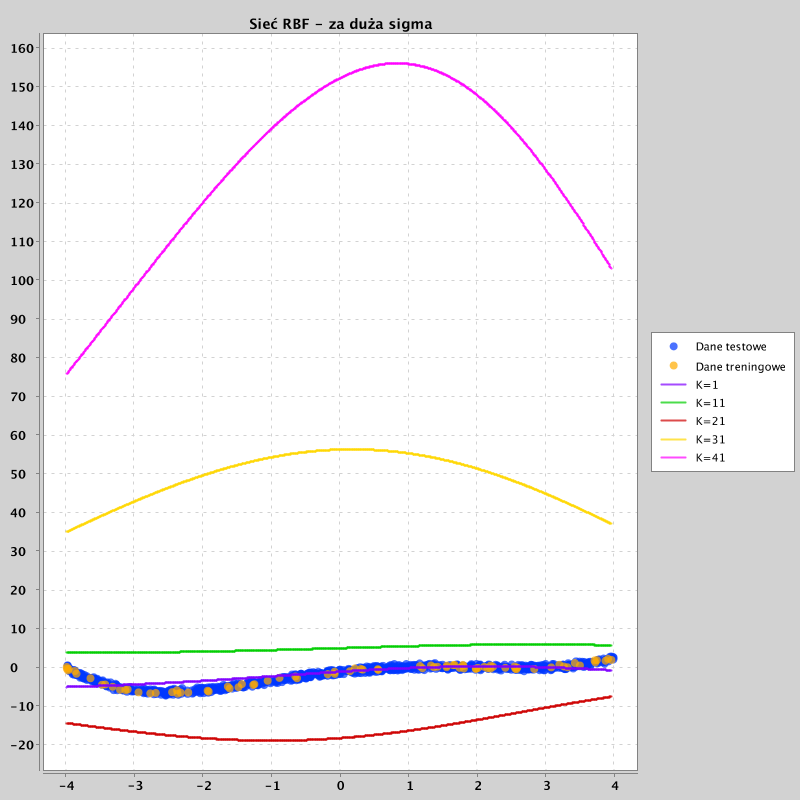
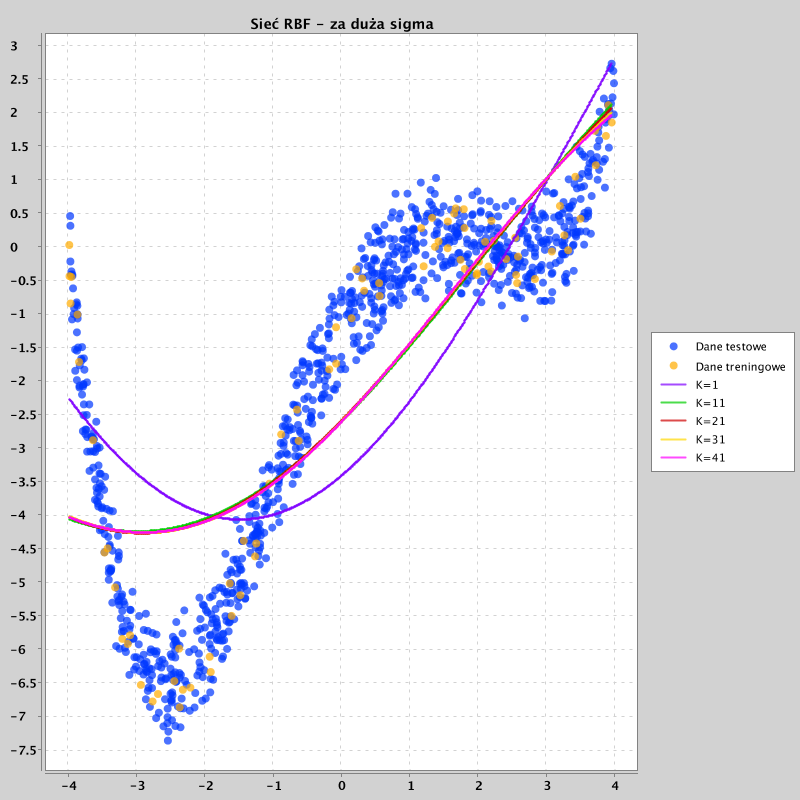
Adjust sigmas and training iterations

diff --git a/src/main/kotlin/tasks/Approximation3/DifferentNeuronNumber1.kt b/src/main/kotlin/tasks/Approximation3/DifferentNeuronNumber1.kt
@@ -41,14 +41,13 @@ class DifferentNeuronNumber1 : Approximation3() {
 fun main() {
     val dnn = DifferentNeuronNumber1()
 
-    val chart = dnn.singleNetwork(41, TooBigSigmaGenerator())
     //val first = GlobalScope.async { dnn.chartOptimalSigma() }
     //val second = GlobalScope.async { dnn.chartSmallSigma() }
-    //val third = GlobalScope.async { dnn.chartBigSigma() }
+    val third = GlobalScope.async { dnn.chartBigSigma() }
 
-    /*runBlocking {
+    runBlocking {
         //first.await()
         //second.await()
-       // third.await()
-    }*/
+       third.await()
+    }
 }

diff --git a/src/main/kotlin/tasks/Approximation3/Approximation3.kt b/src/main/kotlin/tasks/Approximation3/Approximation3.kt
@@ -14,7 +14,7 @@ abstract class Approximation3 {
     val trainingData = DataLoader.loadFile("approx1", 1, 1)
     val testData = DataLoader.loadFile("approx_test", 1, 1)
     val arguments : List<Double>
-    val alpha = 0.01
+    val alpha = 0.05
 
     init {
         val from = trainingData.input().minBy { it.x() }!!.x()
@@ -65,5 +65,5 @@ abstract class Approximation3 {
     }
 
     open fun getDisplayIterations() = 500
-    open fun getTrainingIterations() = 6000
+    open fun getTrainingIterations() = 20000
 }

diff --git a/src/main/kotlin/tasks/Approximation3/RadialVisualisation2.kt b/src/main/kotlin/tasks/Approximation3/RadialVisualisation2.kt
@@ -58,9 +58,6 @@ class RadialVisualisation2 : Approximation3() {
         val chart = plotNetwork("Sieć RBF - optymalna sigma", arrayListOf(singleNetwork(radialNeurons, EqualSigmaGenerator())))
         Charts.saveChart("$folder/optimal", chart)
     }
-
-    override fun getDisplayIterations() = 100
-    override fun getTrainingIterations() = 5000
 }
 
 fun main() {

diff --git a/src/main/kotlin/tasks/Approximation3/Table3.kt b/src/main/kotlin/tasks/Approximation3/Table3.kt
@@ -52,8 +52,6 @@ class Table3 : Approximation3() {
         return Table(statistics)
     }
 
-    override fun getTrainingIterations() = 1000
-    override fun getDisplayIterations() = 1000
     val tableIters = 100
 }
 
